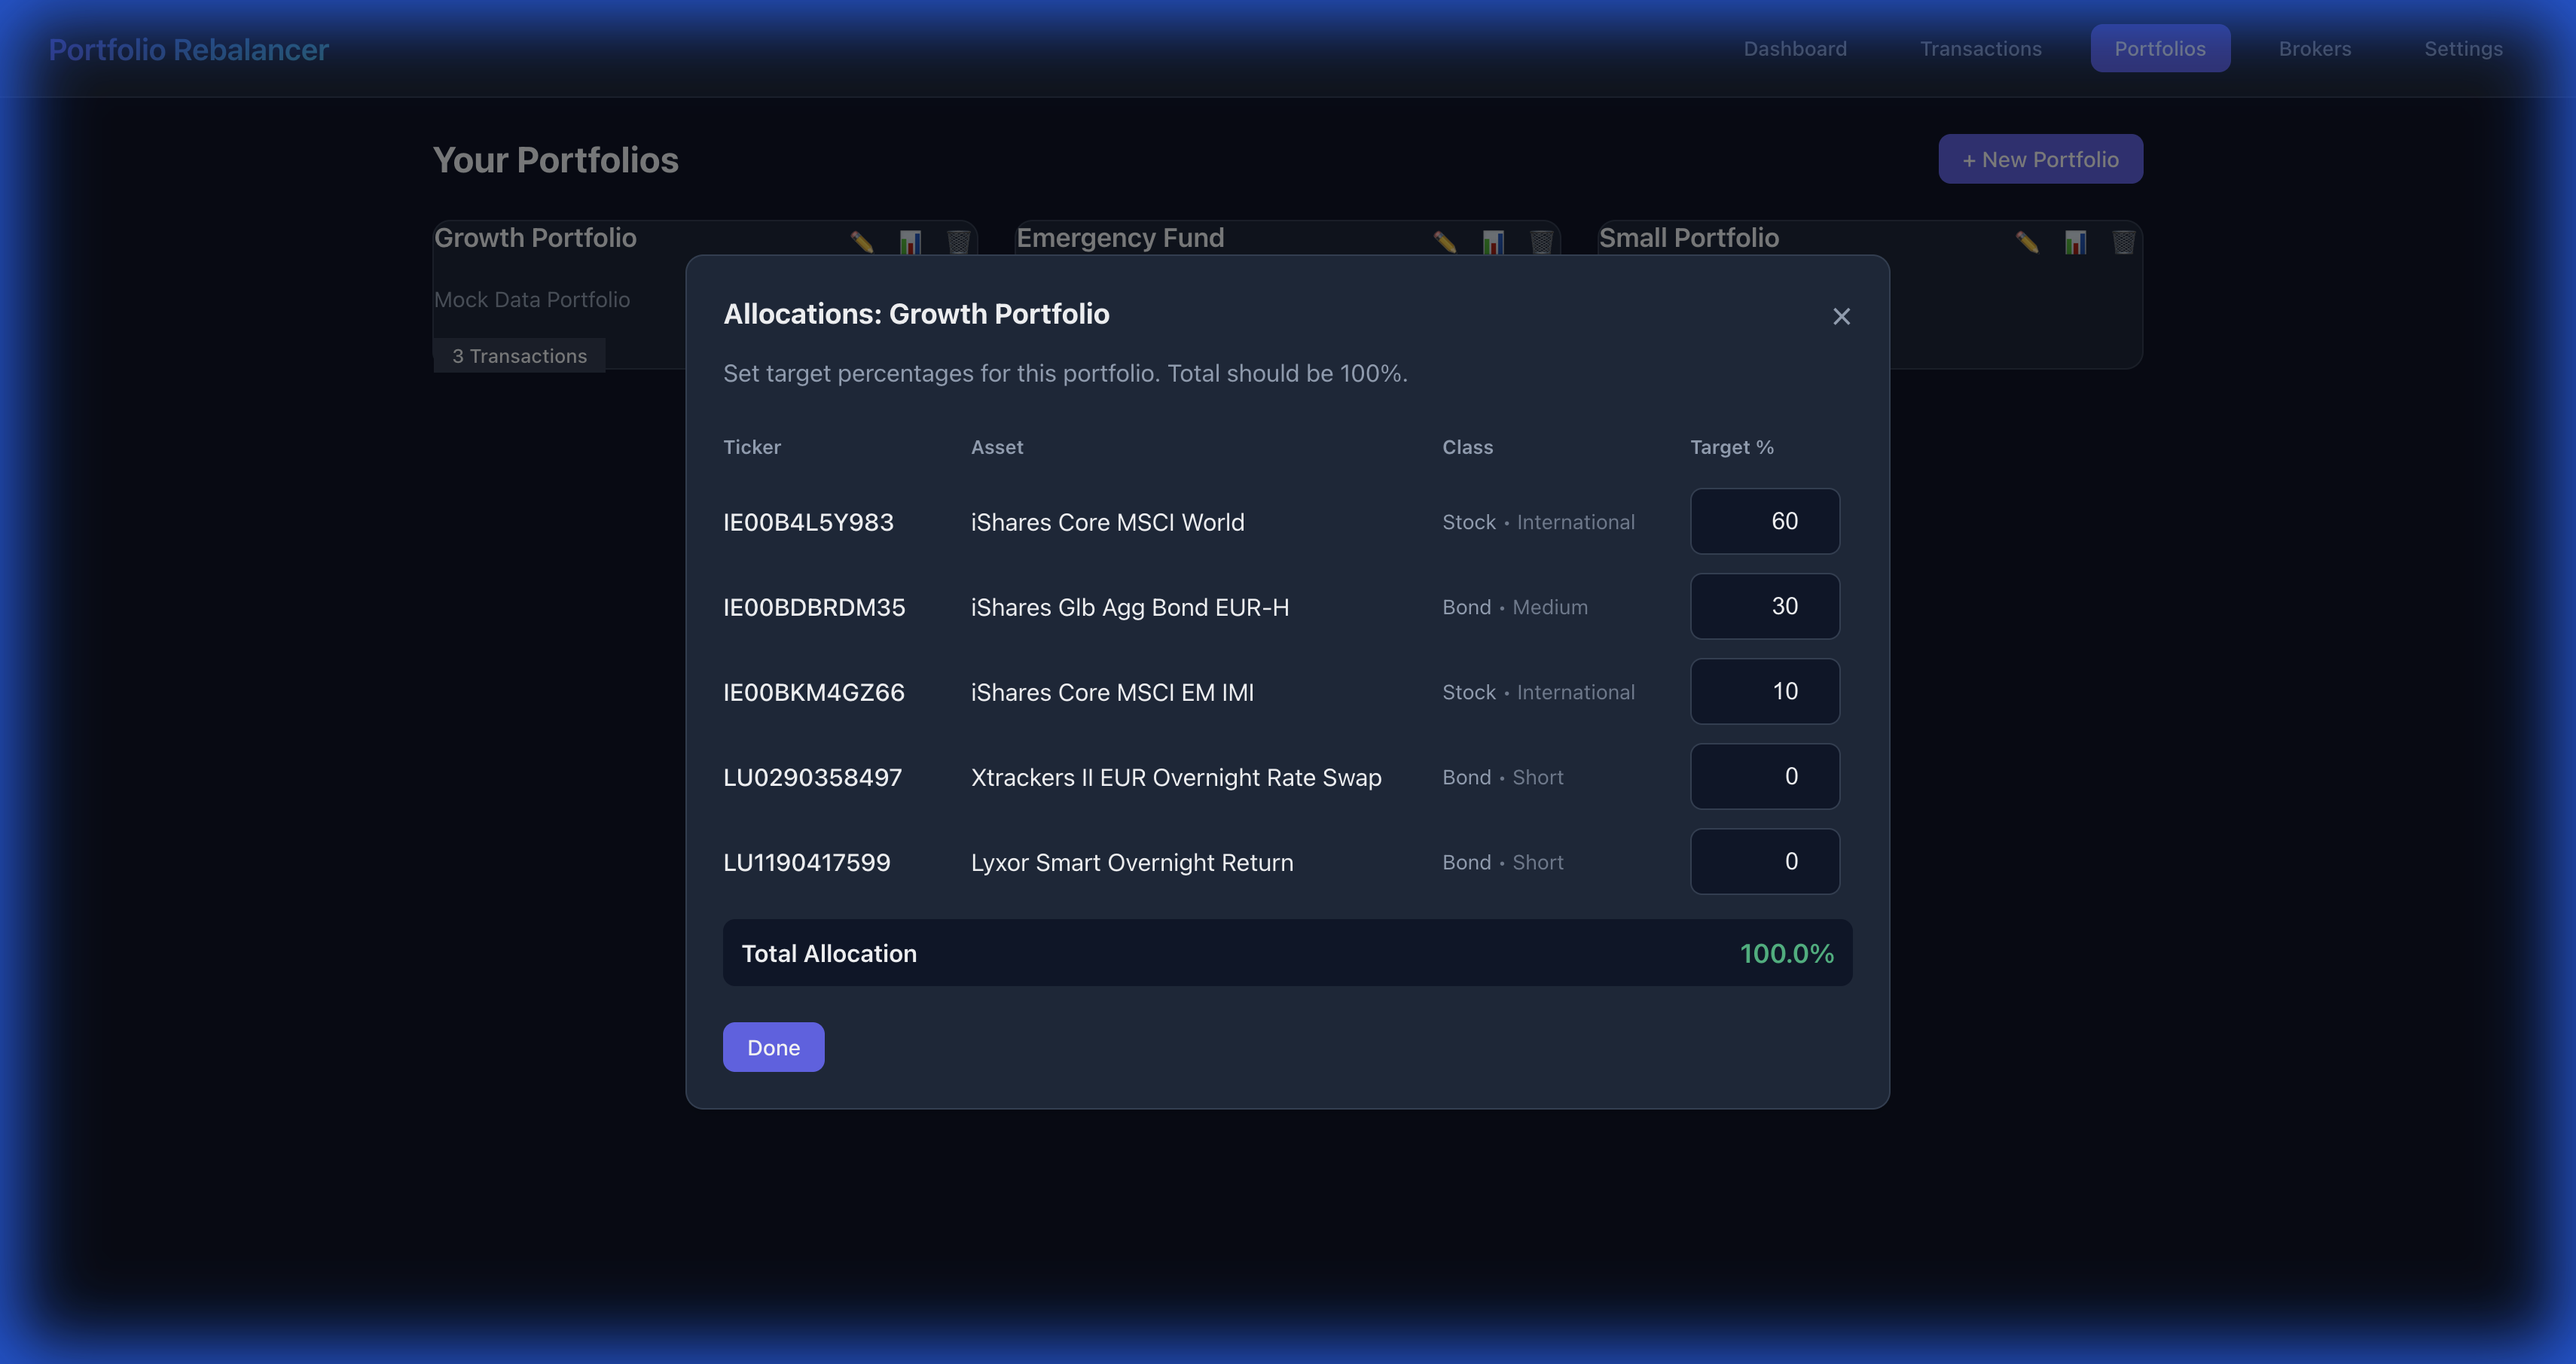
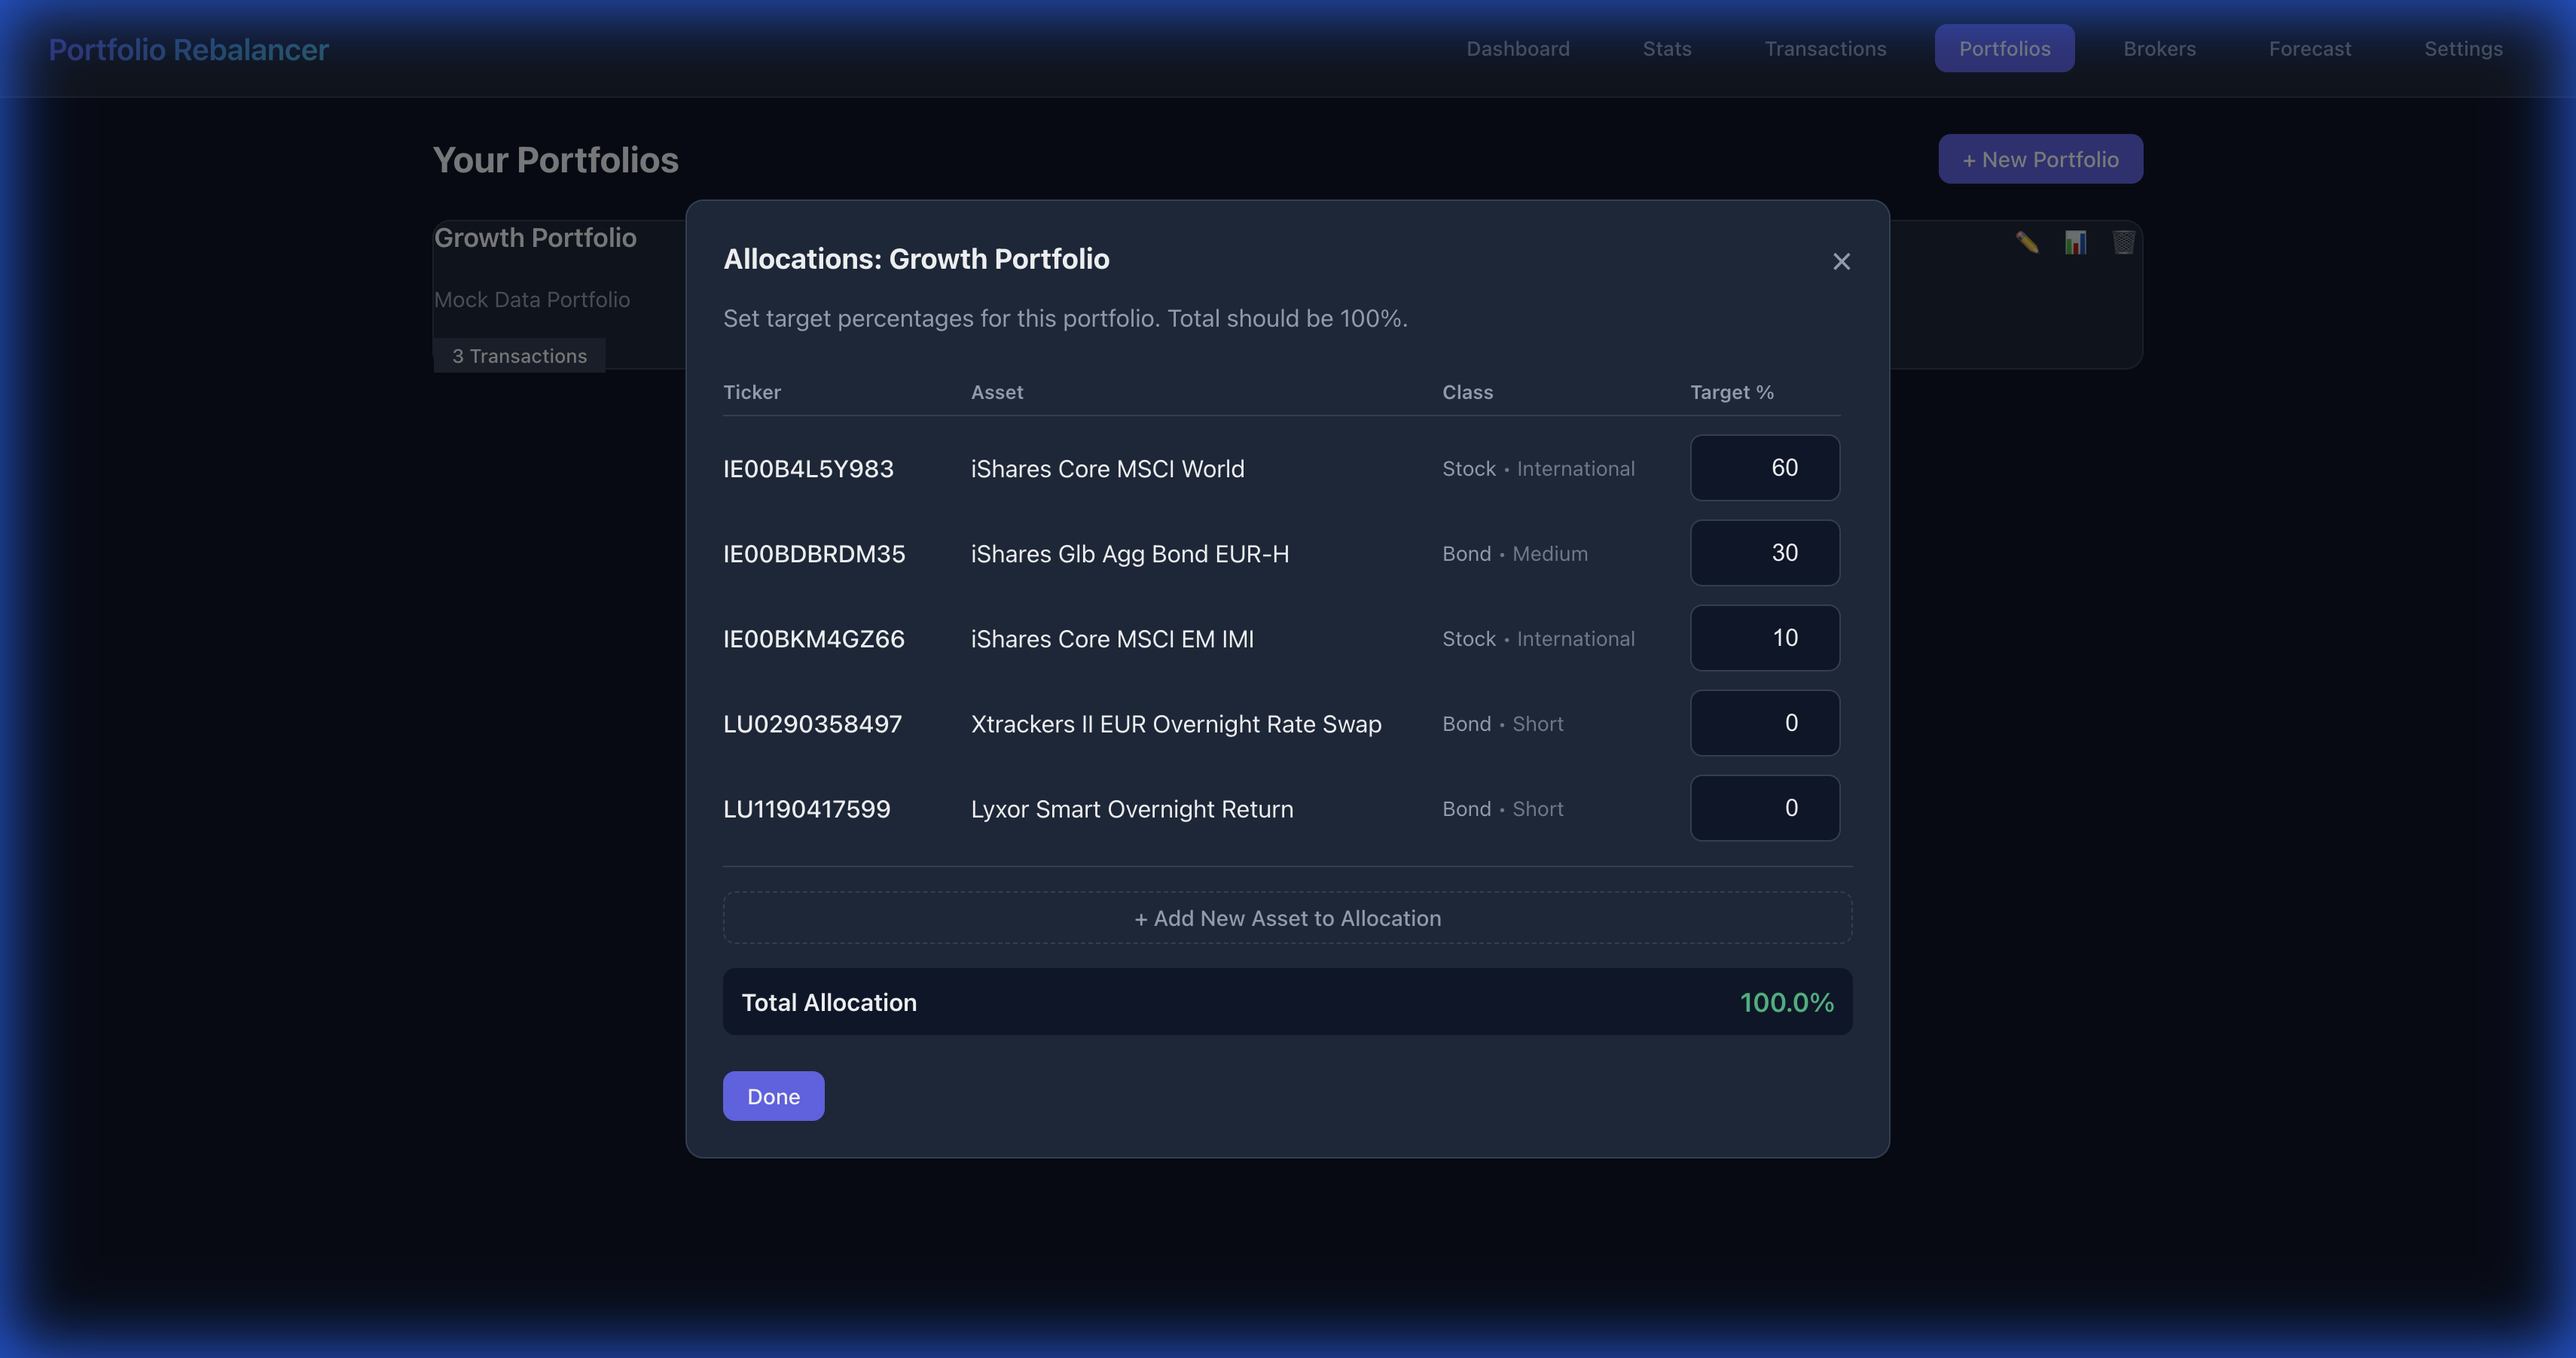
updated readme

diff --git a/README.md b/README.md
@@ -107,7 +107,9 @@ Project your financial future based on current assets, savings, and expenses.
 
 ### Statistics & Analysis
 Deep dive into your portfolio's composition and macro-economic exposure.
-![Stats Allocations](screenshots/stats_allocations.png)
+![Stats Allocations Top](screenshots/stats_allocations.png)
+![Stats Total Portfolios](screenshots/stats_total_portfolios.png)
+![Stats Growth Portfolio](screenshots/stats_growth_portfolio.png)
 - **Portfolio Pyramid**: Visual distribution of assets by risk/goal categories (Liquidity > Protection > Growth).
 - **Macro Allocation**: Aggregate view of exposure to Stocks, Bonds, Crypto, etc. versus your defined targets.
 
@@ -116,6 +118,7 @@ Organize your investments into distinct portfolios (e.g., "Retirement", "Risky B
 ![Portfolios View](screenshots/portfolios_page.png)
 - **Isolation**: Each portfolio tracks its own contribution to your wealth.
 - **Goals**: Set different strategies for different portfolios.
+![Portfolio Targets](screenshots/portfolio_targets.png)
 
 ### Settings & Configuration
 Manage target allocations, external data sources, and data safety.
